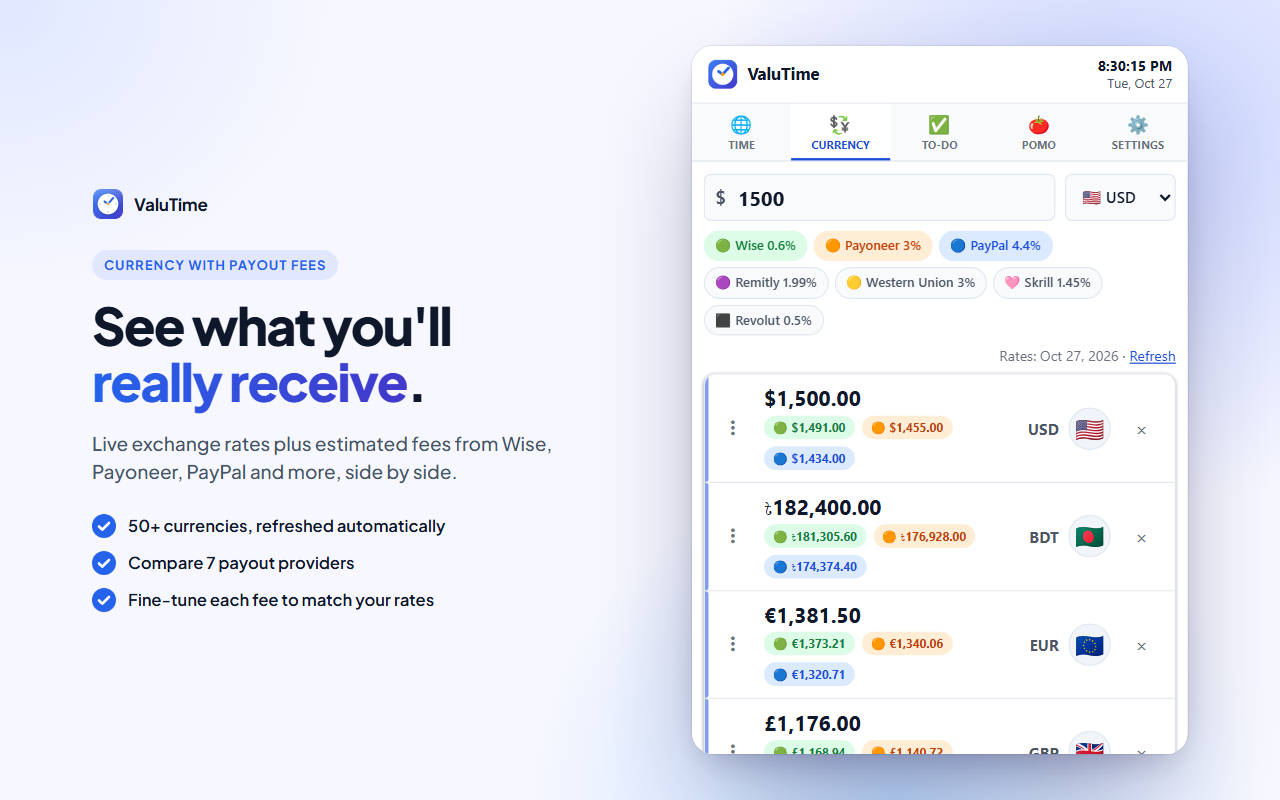
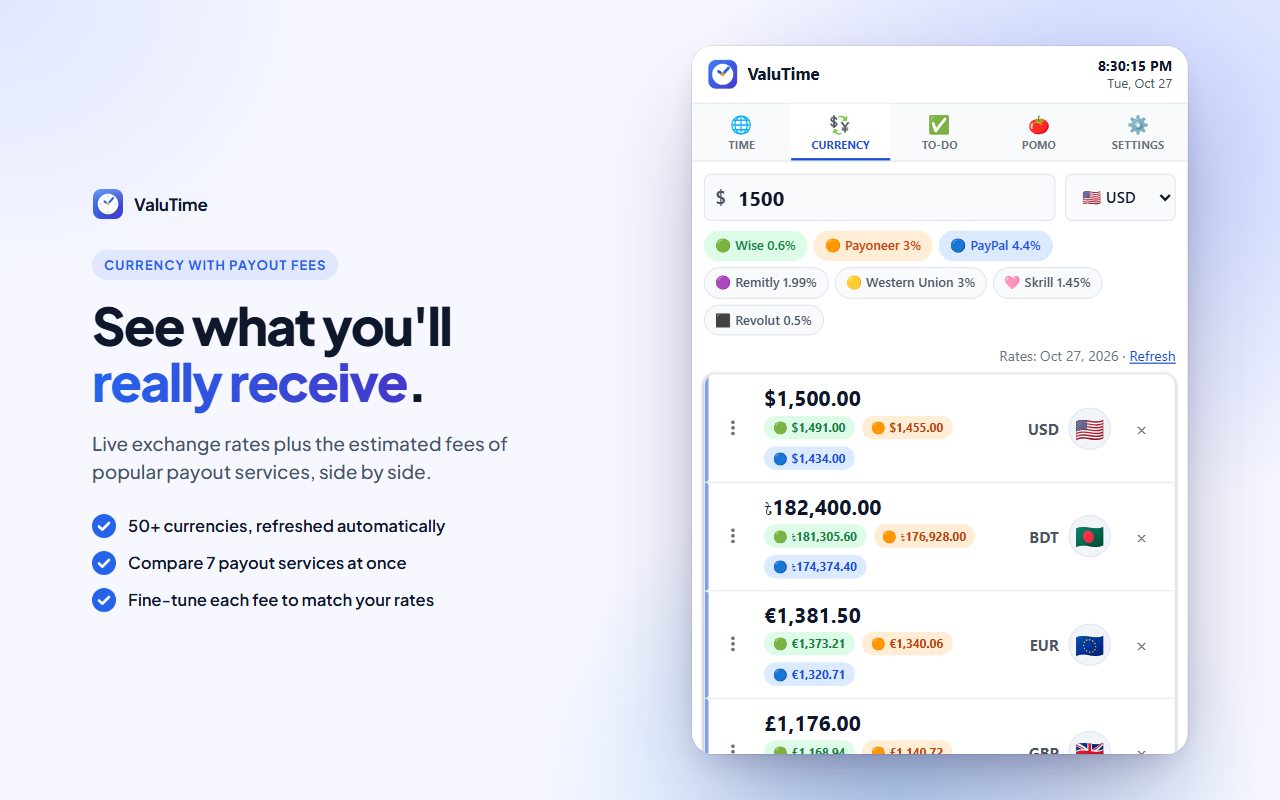
Store listing: remove payout brand list flagged as keyword spam

Changed region(s): [[0.0625, 0.5312, 0.4375, 0.625], [0.2188, 0.6875, 0.3125, 0.7188]]

diff --git a/STORE_LISTING.md b/STORE_LISTING.md
@@ -46,7 +46,7 @@ Built by a working freelancer, for freelancers.
 **💱 Currency conversion that shows what you'll really receive**
 This is the part generic converters miss. ValuTime uses live exchange rates *and* estimates the platform fees freelancers actually pay — so you see your true take-home, not just the mid-market number.
 - Convert any amount across 50+ currencies with up-to-date rates.
-- Toggle payout providers — Wise, Payoneer, PayPal, Remitly, Western Union, Skrill, Revolut — to compare net amounts side by side.
+- Switch on the payout services you use and compare your net amount side by side.
 - Fine-tune each provider's fee percentage in Settings to match your real rates.
 - Quote and invoice with confidence, knowing exactly what lands in your account.
 
@@ -85,9 +85,9 @@ Run your freelance day from one tab. Install ValuTime and get back to the work t
 
 ---
 
-## 5. Search keywords / tags
+## 5. Keywords: do NOT paste anywhere
 
-freelancer tools, world clock, time zone converter, meeting planner, best time to meet, client time zones, currency converter, exchange rates, Wise fees, PayPal fees, Payoneer, invoice calculator, payout calculator, to-do list, task manager, pomodoro, focus timer, site blocker, productivity, ADHD, accessibility
+The Chrome Web Store has no keyword field. Lists of keywords or brand names anywhere in the listing count as "keyword spam" and get the item rejected (v1.7.0 was rejected for listing the payout services by name). Let the description above do the work, and don't add lists of names.
 
 ---
 
